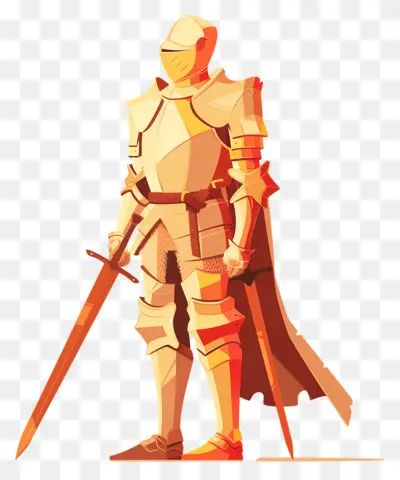
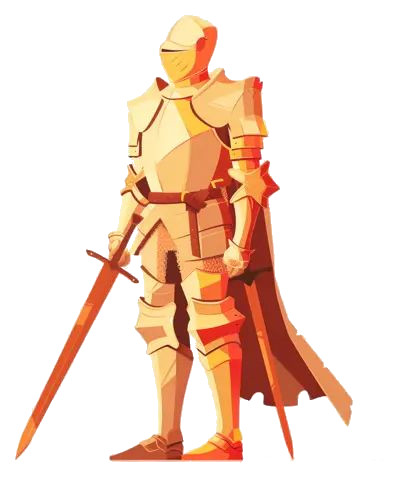
Restyled start of the welcome page

diff --git a/index.html b/index.html
@@ -7,16 +7,19 @@
       <link rel="stylesheet" href="style/main.css">
       <link rel="stylesheet" href="style/accueil.css">
       <link rel="icon" href="img/logo/bde.svg">
+
+      <link href="https://fonts.googleapis.com/css2?family=UnifrakturMaguntia&display=swap" rel="stylesheet">
+      <link href="https://fonts.googleapis.com/css2?family=Pirata+One&family=UnifrakturMaguntia&display=swap" rel="stylesheet">
    </head>
    <body>
-      <div id="bde-header">
+      <!--<div id="bde-header">
          <a href="https://bde-insa-lyon.fr"><img src="img/logo/bde.svg" alt="logo bde"/></a>
          <a href="https://www.facebook.com/groups/1188300195203078/?ref=share" class="btn">Groupe Facebook</a>
          <a href="https://discord.gg/pBzKAafSQM" class="btn">Serveur Discord</a>
          <a href="https://www.instagram.com/inte.insalyon/" class="btn">Compte Insta</a>
          <a href="http://integration.bde-insa-lyon.fr/wp-content/uploads/2023/05/Questionnaire-de-parrainage-2023.pdf" class="btn">Questionnaire</a>
          <a href="https://adhesion.asso-insa-lyon.fr/tour/" class="btn">Inscriptions VA/WEI</a>
-      </div>
+      </div>-->
       <nav>
          <ul class="navbar-nav">
             <li id="inte-logo"><a href="#"><img src="img/logo/inte.png"/></a></li>
@@ -60,19 +63,21 @@
             <li id="nav-burger" onclick="document.querySelector('.navbar-nav').classList.toggle('active');"><a href="#"><img src="img/menu.svg"/></a></li>
          </ul>
       </nav>
+      <div id="bde-logo"><img src="img/logo/bde.svg" alt="logo bde"/></div>
       <div id="welcome">
-         <h1>Bienvenue !</h1>
+         <h1>Bienvenue</h1>
+         <img src="img/banner.png"/>
       </div>
-         <div id="welcoming-text">Salut à toi jeune bizuth !<br/>Bienvenue sur le site de l’inté ! Ce site a été réalisé avec soin pour te donner toutes les informations dont tu as besoin pour te préparer avant d’arriver à l’INSA.<br/>Commence par lire la page d'accueil (c’est très important). Ensuite, va voir chaque page en cliquant sur les différentes maisons du village qui se trouveront toujours tout en haut du site.<br/><br/>Bonne lecture !<br/>PS : Ce site est optimisé pour PC. Si tu lis depuis un téléphone ou une tablette, il est possible que tu remarques quelques bugs d’affichage…
+      <div id="welcoming-text"><span class="pirata-one">Salut à toi jeune bizuth !</span><br/><br/>Bienvenue sur le site de l’inté ! Ce site a été réalisé avec soin pour te donner toutes les informations dont tu as besoin pour te préparer avant d’arriver à l’INSA.<br/>Commence par lire la page d'accueil (c’est très important). Ensuite, va voir chaque page en cliquant sur les différentes maisons du village qui se trouveront toujours tout en haut du site.<br/><br/>Bonne lecture !<br/>PS : Ce site est optimisé pour PC. Si tu lis depuis un téléphone ou une tablette, il est possible que tu remarques quelques bugs d’affichage…
          <div id="btn-container">
-            <a href="https://adhesion.asso-insa-lyon.fr/tour/" class="btn">Lexique</a>
-            <a href="https://adhesion.asso-insa-lyon.fr/tour/" class="btn">To-Do list</a>
+            <a href="https://adhesion.asso-insa-lyon.fr/tour/" class="btn btn-slash">Lexique</a>
+            <a href="https://adhesion.asso-insa-lyon.fr/tour/" class="btn btn-slash"><span>To-Do list</span></a>
          </div>
       </div>
       <div id="countdown">[A faire] Compteur avant inté</div>
       <main>
          <section class="img-left">
-            <div class="img-container"><img class="optional" src="img/test-paragraph.jpg"/></div>
+            <div class="img-container"><img class="optional" src="img/illustration/knight.png"/></div>
             <div class="text colored-bg" style="background-color: var(--light-green); color: var(--white)">
                <p>Jeune héros, te voilà officiellement nouvel insalien ! Tu vas intégrer l’INSA dans le département FIMI qui durera 2 ans (ou plus pour certains), avant de rejoindre un des 9 départements de l’INSA. Mais avant de penser à ça, il te faut choisir une filière : selon ce que tu as demandé sur Parcoursup, tu sais déjà si tu es Classique, INS’Avenir, SHN ou Bachelor ! Mais certains classiques pourraient partir à l’aventure et tenter d’accéder à une des nombreuses filières internationales ou artistiques du Mont INSA… </p>
             </div>
@@ -99,10 +104,10 @@ Pssst…! Pour les papas et les mamans, un petit texte vous est dédié plus bas
 
                </p>
             </div>
-            <div class="img-container"><img class="optional" src="img/test-paragraph.jpg"/></div>
+            <div class="img-container"><img class="optional" src="img/illustration/knight.png"/></div>
          </section>
          <section class="img-left">
-            <div class="img-container"><img class="optional" src="img/test-paragraph.jpg"/></div>
+            <div class="img-container"><img class="optional" src="img/illustration/knight.png"/></div>
             <div class="text colored-bg" style="background-color: var(--red); color: var(--white)">
                <p>Mot du président du BdE, à avoir avec le/la futur.e pres qui sera bientôt élu !
 </p>
@@ -121,10 +126,10 @@ On te laisse découvrir le site, fouille-le un maximum  pour avoir toutes les in
 
                </p>
             </div>
-            <div class="img-container"><img class="optional" src="img/test-paragraph.jpg"/></div>
+            <div class="img-container"><img class="optional" src="img/illustration/knight.png"/></div>
          </section>
          <section class="img-left">
-            <div class="img-container"><img class="optional" src="img/test-paragraph.jpg"/></div>
+            <div class="img-container"><img class="optional" src="img/illustration/knight.png"/></div>
             <div class="text colored-bg" style="background-color: var(--yellow); color: var(--white)">
                <p>
 On tient à vous rassurer, vous, les parents. Laisser votre futur.e chevalier partir à l’aventure n’est sans doute pas une chose facile. Mais l’INSA est une contrée où entraide et cohésion sont de mise ! Dès son arrivée, votre enfant va être placé entre de bonnes mains : un parrain ou une marraine ! Son ou sa mentor pour bien débuter et répondre à ses questions à la rentrée. De plus, il/elle aura la chance de rejoindre une “miff”, un groupe d’amis de première et deuxième année qui l'aidera à prendre ses marques dès le début de l’année. On tient aussi à vous assurer qu’à l’INSA,on ne tolère aucune forme de bizutage, et les membres du BdE et les deuxièmes années sont tous là pour s’en assurer. Votre chevalier restera dans tous les cas en sécurité et sera maître de son destin ! En bref, pas d’inquiétude, son intégration ne peut que bien se passer. Vous êtes vous aussi invités à visiter ce site dans son intégralité si vous le souhaitez !

diff --git a/style/main.css b/style/main.css
@@ -4,15 +4,17 @@ html, body {
    font-size: 40px;
 
    --blue: #3c4a59;
+   --light-blue: #4d5f73;
    --dark-green: #11511f;
    --light-green: #488e58;
    --cream: #e1d38d;
+   --light-cream: #fff8d6;
    --red: #b00619;
    --orange: #ec6e00;
    --yellow: #f2a633;
    --white: #fbfbfb;
    --light-grey: #f2f2f2;
-   --black: #000;
+   --black: #24242b;
   font-size: calc(11px + 0.293vw);
 }
 
@@ -21,6 +23,7 @@ body {
   background-attachment: fixed;
   background-size: cover;
   background-position: center;
+  backdrop-filter: saturate(0.9) brightness(0.95);
 
   display: flex;
   flex-direction: column;
@@ -29,6 +32,8 @@ body {
 
 p, button, a, h1, h2, div {
    font-family: "sans-serif";
+   color: var(--black);
+   margin: 0;
 }
 
 a {
@@ -50,21 +55,78 @@ p {
    height: 4rem;
 }
 
+
+#bde-logo {
+   margin-left: auto;
+   margin-right: 0.5rem;
+   margin-top: 0.5rem;
+   height: 4rem;
+}
+
+#bde-logo img {
+   height: 4rem;
+}
+
+
+
+
 .btn {
-   background-color: var(--white);
+   background-color: var(--cream);
    color: black;
-   border: solid 2px var(--black);
+   /*border: solid 2px var(--black);*/
    border-radius: 99rem;
-   padding: 0.3rem 0.5rem;
+   padding: .7rem 1.5rem;
    cursor: pointer;
 }
+
+.btn-slash {
+   overflow: hidden;
+   position: relative;
+}
+
+.btn-slash span {
+   z-index: 20;
+}
+  
+.btn-slash::after {
+   background: var(--light-grey);
+   content: "";
+   height: 155px;
+   left: -75px;
+   opacity: .2;
+   position: absolute;
+   top: -50px;
+   transform: rotate(35deg);
+   transition: all 550ms cubic-bezier(0.19, 1, 0.22, 1);
+   width: 50px;
+   z-index: 10;
+}
+
+.btn-slash:hover::after {
+   left: 120%;
+   transition: all 550ms cubic-bezier(0.19, 1, 0.22, 1);
+}
+
+
+
+
+.pirata-one {
+   font-family: "Pirata One";
+   font-size: 2rem;
+}
+
+
+
+
+
+
+
 
 
 nav {
    height: 4rem;
    width: 100%;
-   background: var(--white);
-   color: var(--black);
+   background: var(--blue);
 
    position: sticky;
    top: 0;
@@ -89,7 +151,7 @@ nav {
 }
 
 .nav-item a {
-   color: var(--black);
+   color: var(--white);
 
    padding: 1rem 0;
 }
@@ -108,7 +170,7 @@ nav {
 .dropdown {
    opacity: 0;
    z-index: 2;
-   background: var(--light-grey);
+   background: var(--light-blue);
    
    display: flex;
    flex-direction: column;

diff --git a/style/accueil.css b/style/accueil.css
@@ -2,16 +2,19 @@
    display: grid;
    justify-items: center;
 
-   margin: 2rem 0;
+   margin: 4rem 0rem 9rem;;
 }
 
 #welcome h1 {
-   background-color: var(--white);
-   padding: 1rem;
-   margin: 0;
-   border-radius: 1rem;
+   font-size: 5rem;
+   font-family: UnifrakturMaguntia;
+   color: var(--light-cream);
+}
 
-   font-size: 3rem;
+#welcome img {
+   position: fixed;
+   z-index: -1;
+   transform: translateY(-2.2rem);
 }
 
 
@@ -28,12 +31,13 @@
 
 #welcoming-text::before {
    content: "";
-   background-image: url("../img/test-paragraph.jpg");
+   background-image: url("../img/illustration/knight.png");
+   transform: scaleX(-1);
    position: absolute;
    width: 20rem;
-   height: 20rem;
+   height: 23rem;
    background-size: cover;
-   left: -15rem;
+   left: -18rem;
    z-index: -1;
    top: 50%;
 }
